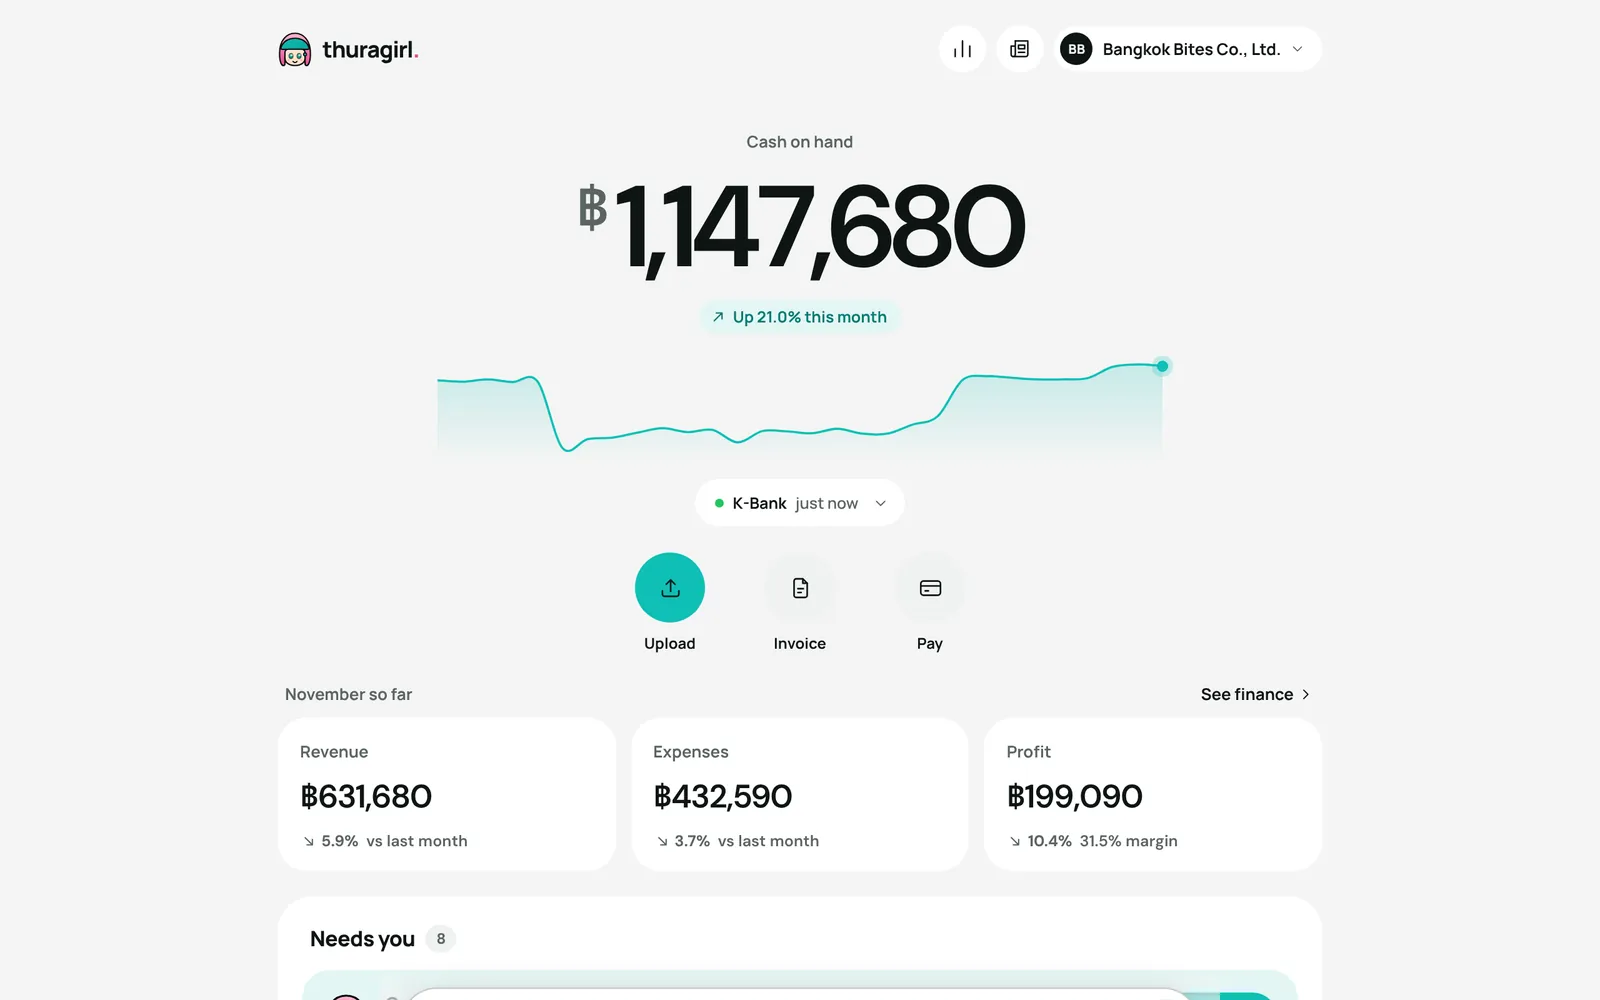
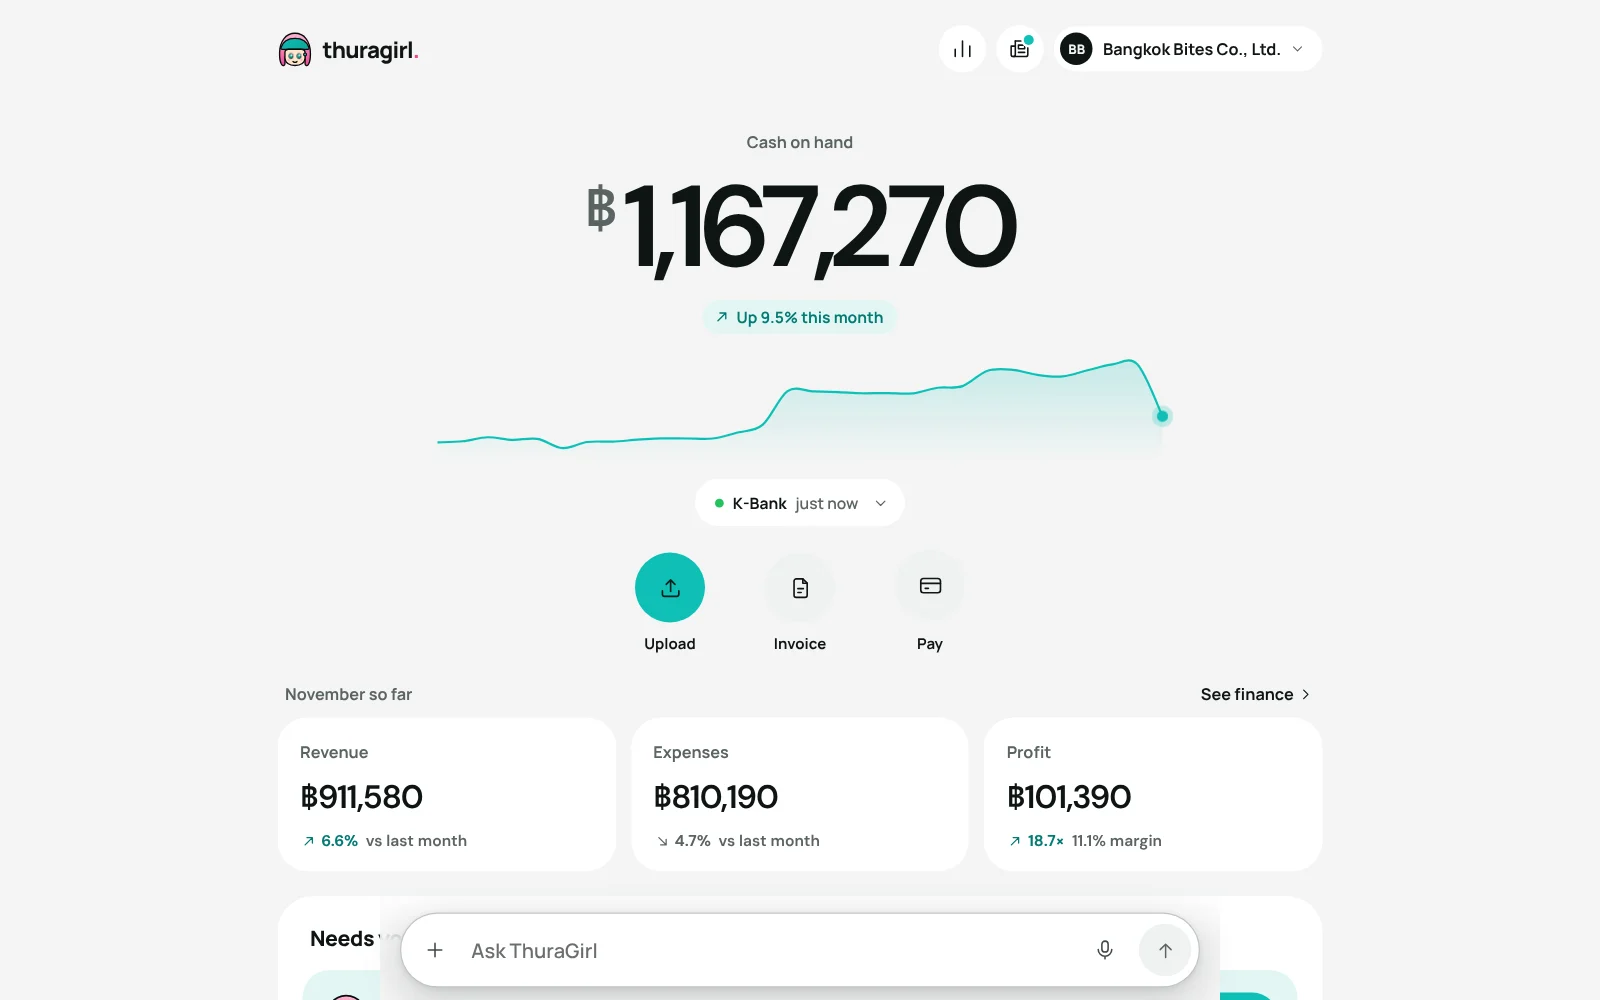
QA sweep: hub lists all five pages, landing hero pill fits on phones, fresh desktop Home screenshot
Claude-Session: https://claude.ai/code/session_01GsiQUqeV1QNReQJcsSpZ49

diff --git a/web/index.html b/web/index.html
@@ -112,6 +112,7 @@
   .hero::before{content:"";position:absolute;inset:-120px 0 auto;height:720px;background:radial-gradient(60% 55% at 50% 30%,color-mix(in srgb,var(--accent) 16%,transparent),transparent 70%);pointer-events:none;z-index:-1}
   .kicker{display:inline-flex;align-items:center;gap:8px;background:var(--surface);box-shadow:inset 0 0 0 1px var(--line);padding:6px 14px 6px 8px;border-radius:999px;font-weight:700;font-size:13.5px;color:var(--mute)}
   .kicker b{display:inline-grid;place-items:center;height:22px;padding:0 9px;border-radius:999px;background:var(--tint);color:var(--hint);font-size:12px;letter-spacing:.02em}
+  @media (max-width:430px){ .kicker{font-size:12px;padding:5px 12px 5px 6px} .kicker span{white-space:nowrap} }
   h1{font-size:clamp(44px,8.4vw,104px);font-weight:800;letter-spacing:-.055em;line-height:.98;margin:26px auto 0;max-width:12ch}
   h1 em,h2 em{font-family:var(--serif);font-style:italic;font-weight:400;color:var(--hint);letter-spacing:-.02em}
   h1 em{display:block;font-size:1.06em;line-height:1}

diff --git a/index.html b/index.html
@@ -28,8 +28,9 @@
 <body>
 <main>
   <div class="b">thuragirl<i>.</i></div>
-  <div><h1>Version 2, test build</h1><p style="margin-top:10px">Three pages to try. Accounts and data are saved in your browser only, so use a made-up password.</p></div>
+  <div><h1>Version 2, test build</h1><p style="margin-top:10px">Five pages to try. Accounts and data are saved in your browser only, so use a made-up password.</p></div>
   <nav>
+    <a href="web/"><div><b>Landing page</b><span>What ThuraGirl is, plans and FAQ</span></div><em>/web</em></a>
     <a href="signup/"><div><b>Sign up</b><span>Create an account and set up a company</span></div><em>/signup</em></a>
     <a href="dashboard/"><div><b>Dashboard</b><span>The owner's app: home, money, brief, settings</span></div><em>/dashboard</em></a>
     <a href="auditorlogin/"><div><b>Auditor sign-in</b><span>For ThuraGirl auditors. The first account becomes the lead</span></div><em>/auditorlogin</em></a>

diff --git a/src/build.py b/src/build.py
@@ -121,8 +121,9 @@ hub = (HEAD % ("ThuraGirl v2 · test build", "", fonts)) + '''<style>
 <body>
 <main>
   <div class="b">thuragirl<i>.</i></div>
-  <div><h1>Version 2, test build</h1><p style="margin-top:10px">Three pages to try. Accounts and data are saved in your browser only, so use a made-up password.</p></div>
+  <div><h1>Version 2, test build</h1><p style="margin-top:10px">Five pages to try. Accounts and data are saved in your browser only, so use a made-up password.</p></div>
   <nav>
+    <a href="web/"><div><b>Landing page</b><span>What ThuraGirl is, plans and FAQ</span></div><em>/web</em></a>
     <a href="signup/"><div><b>Sign up</b><span>Create an account and set up a company</span></div><em>/signup</em></a>
     <a href="dashboard/"><div><b>Dashboard</b><span>The owner's app: home, money, brief, settings</span></div><em>/dashboard</em></a>
     <a href="auditorlogin/"><div><b>Auditor sign-in</b><span>For ThuraGirl auditors. The first account becomes the lead</span></div><em>/auditorlogin</em></a>
